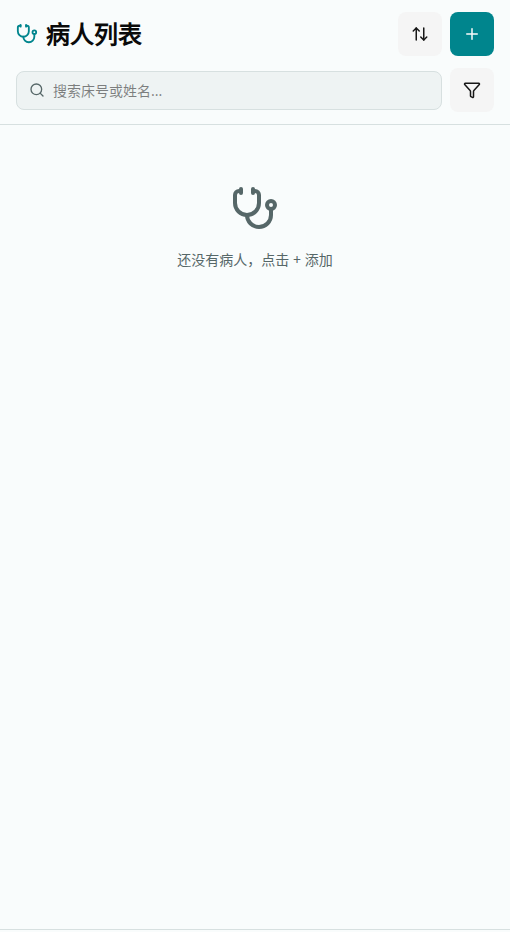
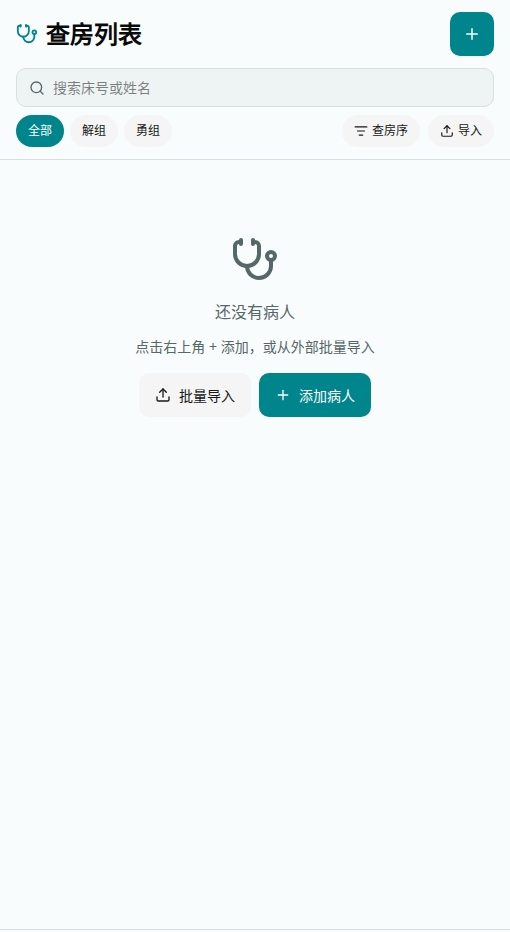
fix: 修复对话框被底部导航遮挡及移动端hover不可见问题

diff --git a/frontend/src/pages/TodoSummary.tsx b/frontend/src/pages/TodoSummary.tsx
@@ -182,7 +182,7 @@ export default function TodoSummary() {
               ) : (
                 <div className="space-y-1.5">
                   {filteredMemos.map((m) => (
-                    <div key={m.id} className="flex items-center gap-2.5 p-2 rounded-lg group" style={{ backgroundColor: "var(--muted)" }}>
+                    <div key={m.id} className="flex items-center gap-2.5 p-2 rounded-lg" style={{ backgroundColor: "var(--muted)" }}>
                       <button
                         onClick={() => toggleMemo(m.id)}
                         className="w-5 h-5 rounded-full border-2 flex-shrink-0"
@@ -191,7 +191,7 @@ export default function TodoSummary() {
                       <span className="flex-1" style={{ fontSize: "var(--font-size-label)", color: "var(--foreground)" }}>
                         {m.content}
                       </span>
-                      <button onClick={() => deleteMemo(m.id)} className="opacity-0 group-hover:opacity-100 p-1">
+                      <button onClick={() => deleteMemo(m.id)} className="p-1">
                         <Trash2 size={12} style={{ color: "var(--muted-foreground)" }} />
                       </button>
                     </div>
@@ -229,7 +229,7 @@ export default function TodoSummary() {
                 </button>
                 <div className="space-y-1">
                   {group.todos.map((todo) => (
-                    <div key={todo.id} className="flex items-center gap-2.5 p-2 rounded-lg group" style={{ backgroundColor: "var(--muted)" }}>
+                    <div key={todo.id} className="flex items-center gap-2.5 p-2 rounded-lg" style={{ backgroundColor: "var(--muted)" }}>
                       <button
                         onClick={() => toggleTodo(group.patientId, todo.id)}
                         className="w-5 h-5 rounded-full border-2 flex-shrink-0"
@@ -238,7 +238,7 @@ export default function TodoSummary() {
                       <span className="flex-1" style={{ fontSize: "var(--font-size-label)", color: "var(--foreground)" }}>
                         {todo.content}
                       </span>
-                      <div className="flex items-center gap-1 opacity-0 group-hover:opacity-100 transition-opacity">
+                      <div className="flex items-center gap-1">
                         {todo.type && todo.type !== "其他" && (
                           <span className="px-1.5 py-0.5 rounded text-xs"
                             style={{ backgroundColor: "var(--secondary)", color: "var(--secondary-foreground)", fontSize: "var(--font-size-small)" }}>

diff --git a/frontend/src/components/ImportTextDialog.tsx b/frontend/src/components/ImportTextDialog.tsx
@@ -51,7 +51,7 @@ export default function ImportTextDialog({ open, onOpenChange }: ImportTextDialo
             initial={{ opacity: 0 }}
             animate={{ opacity: 1 }}
             exit={{ opacity: 0 }}
-            className="fixed inset-0 z-50 flex items-end sm:items-center justify-center"
+            className="fixed inset-0 z-[60] flex items-end sm:items-center justify-center"
             style={{ backgroundColor: "rgba(0,0,0,0.4)" }}
             onClick={(e) => e.target === e.currentTarget && onOpenChange(false)}
           >
@@ -59,7 +59,7 @@ export default function ImportTextDialog({ open, onOpenChange }: ImportTextDialo
               initial={{ y: "100%" }}
               animate={{ y: 0 }}
               exit={{ y: "100%" }}
-              className="w-full sm:max-w-md rounded-t-xl sm:rounded-xl p-4 max-h-[80vh] overflow-y-auto"
+              className="w-full sm:max-w-md rounded-t-xl sm:rounded-xl p-4 pb-20 max-h-[80vh] overflow-y-auto"
               style={{ backgroundColor: "var(--background)" }}
             >
               <div className="flex items-center justify-between mb-4">
@@ -124,7 +124,7 @@ export default function ImportTextDialog({ open, onOpenChange }: ImportTextDialo
             initial={{ opacity: 0 }}
             animate={{ opacity: 1 }}
             exit={{ opacity: 0 }}
-            className="fixed inset-0 z-50 flex items-center justify-center"
+            className="fixed inset-0 z-[60] flex items-center justify-center"
             style={{ backgroundColor: "rgba(0,0,0,0.4)" }}
           >
             <motion.div

diff --git a/frontend/src/pages/DataManagement.tsx b/frontend/src/pages/DataManagement.tsx
@@ -123,13 +123,13 @@ export default function DataManagement() {
           {showImportText && (
             <motion.div
               initial={{ opacity: 0 }} animate={{ opacity: 1 }} exit={{ opacity: 0 }}
-              className="fixed inset-0 z-50 flex items-end sm:items-center justify-center"
+              className="fixed inset-0 z-[60] flex items-end sm:items-center justify-center"
               style={{ backgroundColor: "rgba(0,0,0,0.4)" }}
               onClick={(e) => e.target === e.currentTarget && setShowImportText(false)}
             >
               <motion.div
                 initial={{ y: "100%" }} animate={{ y: 0 }} exit={{ y: "100%" }}
-                className="w-full sm:max-w-md rounded-t-xl sm:rounded-xl p-4 max-h-[80vh] overflow-y-auto"
+                className="w-full sm:max-w-md rounded-t-xl sm:rounded-xl p-4 pb-20 max-h-[80vh] overflow-y-auto"
                 style={{ backgroundColor: "var(--background)" }}
               >
                 <h2 style={{ fontSize: "var(--font-size-body)", fontWeight: "var(--font-weight-semibold)", color: "var(--foreground)", marginBottom: "var(--spacing-md)" }}>
@@ -170,7 +170,7 @@ export default function DataManagement() {
           {showDeleteConfirm && (
             <motion.div
               initial={{ opacity: 0 }} animate={{ opacity: 1 }} exit={{ opacity: 0 }}
-              className="fixed inset-0 z-50 flex items-center justify-center"
+              className="fixed inset-0 z-[60] flex items-center justify-center"
               style={{ backgroundColor: "rgba(0,0,0,0.4)" }}
             >
               <motion.div

diff --git a/frontend/src/pages/PatientDetail.tsx b/frontend/src/pages/PatientDetail.tsx
@@ -337,7 +337,7 @@ export default function PatientDetail() {
                       initial={{ opacity: 0, height: 0 }}
                       animate={{ opacity: 1, height: "auto" }}
                       exit={{ opacity: 0, height: 0 }}
-                      className="flex items-center gap-2.5 p-2 rounded-lg group"
+                      className="flex items-center gap-2.5 p-2 rounded-lg"
                       style={{ backgroundColor: "var(--muted)" }}
                     >
                       <button
@@ -348,7 +348,7 @@ export default function PatientDetail() {
                       <span className="flex-1" style={{ fontSize: "var(--font-size-label)", color: "var(--foreground)" }}>
                         {todo.content}
                       </span>
-                      <div className="flex items-center gap-1 opacity-0 group-hover:opacity-100 transition-opacity">
+                      <div className="flex items-center gap-1">
                         {todo.type && todo.type !== "其他" && (
                           <span className="px-1.5 py-0.5 rounded text-xs"
                             style={{ backgroundColor: "var(--secondary)", color: "var(--secondary-foreground)", fontSize: "var(--font-size-small)" }}>
@@ -458,7 +458,7 @@ export default function PatientDetail() {
             initial={{ opacity: 0 }}
             animate={{ opacity: 1 }}
             exit={{ opacity: 0 }}
-            className="fixed inset-0 z-50 flex items-center justify-center"
+            className="fixed inset-0 z-[60] flex items-center justify-center"
             style={{ backgroundColor: "rgba(0,0,0,0.4)" }}
             onClick={() => setShowDelete(false)}
           >

diff --git a/frontend/src/components/AddPatientDialog.tsx b/frontend/src/components/AddPatientDialog.tsx
@@ -30,7 +30,7 @@ export default function AddPatientDialog({ open, onOpenChange, onAdd }: AddPatie
           initial={{ opacity: 0 }}
           animate={{ opacity: 1 }}
           exit={{ opacity: 0 }}
-          className="fixed inset-0 z-50 flex items-end sm:items-center justify-center"
+          className="fixed inset-0 z-[60] flex items-end sm:items-center justify-center"
           style={{ backgroundColor: "rgba(0,0,0,0.4)" }}
           onClick={(e) => e.target === e.currentTarget && onOpenChange(false)}
         >
@@ -38,7 +38,7 @@ export default function AddPatientDialog({ open, onOpenChange, onAdd }: AddPatie
             initial={{ y: "100%" }}
             animate={{ y: 0 }}
             exit={{ y: "100%" }}
-            className="w-full sm:max-w-md rounded-t-xl sm:rounded-xl p-4"
+            className="w-full sm:max-w-md rounded-t-xl sm:rounded-xl p-4 pb-20"
             style={{ backgroundColor: "var(--background)" }}
           >
             <div className="flex items-center justify-between mb-4">

diff --git a/frontend/src/components/BloodRecordDialog.tsx b/frontend/src/components/BloodRecordDialog.tsx
@@ -59,7 +59,7 @@ export default function BloodRecordDialog({ open, onOpenChange, onSave }: BloodR
           initial={{ opacity: 0 }}
           animate={{ opacity: 1 }}
           exit={{ opacity: 0 }}
-          className="fixed inset-0 z-50 flex items-end sm:items-center justify-center"
+          className="fixed inset-0 z-[60] flex items-end sm:items-center justify-center"
           style={{ backgroundColor: "rgba(0,0,0,0.4)" }}
           onClick={(e) => e.target === e.currentTarget && onOpenChange(false)}
         >
@@ -67,7 +67,7 @@ export default function BloodRecordDialog({ open, onOpenChange, onSave }: BloodR
             initial={{ y: "100%" }}
             animate={{ y: 0 }}
             exit={{ y: "100%" }}
-            className="w-full sm:max-w-md rounded-t-xl sm:rounded-xl p-4 max-h-[85vh] overflow-y-auto"
+            className="w-full sm:max-w-md rounded-t-xl sm:rounded-xl p-4 pb-20 max-h-[85vh] overflow-y-auto"
             style={{ backgroundColor: "var(--background)" }}
           >
             <div className="flex items-center justify-between mb-3">

diff --git a/frontend/src/components/EditPatientDialog.tsx b/frontend/src/components/EditPatientDialog.tsx
@@ -37,7 +37,7 @@ export default function EditPatientDialog({ open, onOpenChange, patient, onSave 
           initial={{ opacity: 0 }}
           animate={{ opacity: 1 }}
           exit={{ opacity: 0 }}
-          className="fixed inset-0 z-50 flex items-end sm:items-center justify-center"
+          className="fixed inset-0 z-[60] flex items-end sm:items-center justify-center"
           style={{ backgroundColor: "rgba(0,0,0,0.4)" }}
           onClick={(e) => e.target === e.currentTarget && onOpenChange(false)}
         >
@@ -45,7 +45,7 @@ export default function EditPatientDialog({ open, onOpenChange, patient, onSave 
             initial={{ y: "100%" }}
             animate={{ y: 0 }}
             exit={{ y: "100%" }}
-            className="w-full sm:max-w-md rounded-t-xl sm:rounded-xl p-4"
+            className="w-full sm:max-w-md rounded-t-xl sm:rounded-xl p-4 pb-20"
             style={{ backgroundColor: "var(--background)" }}
           >
             <div className="flex items-center justify-between mb-4">